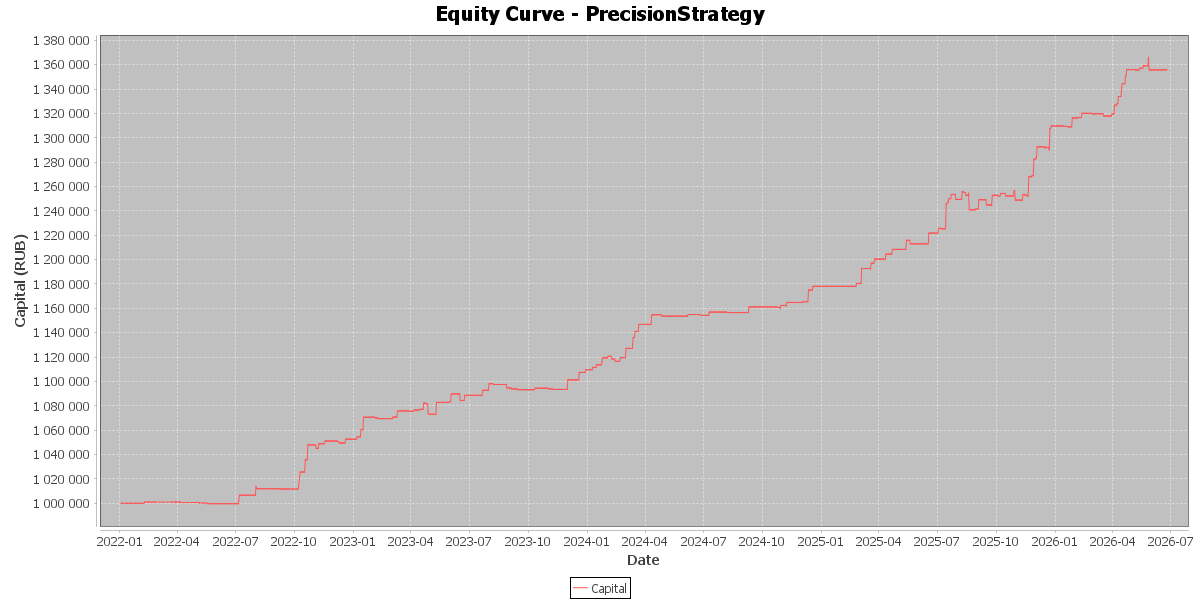
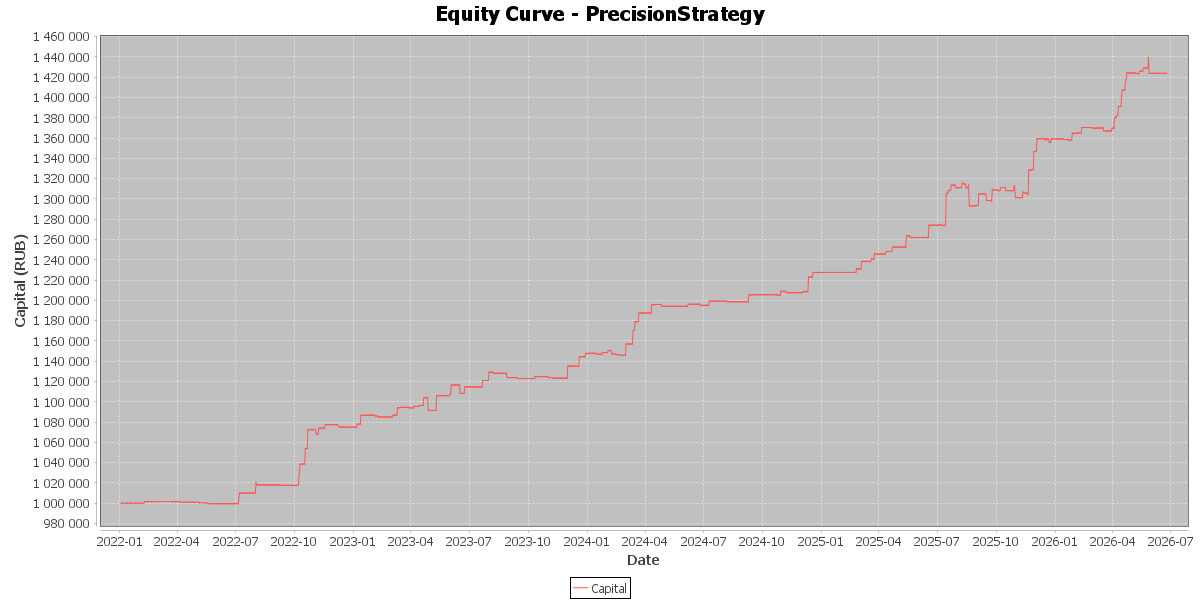
mini upd

diff --git a/src/main/java/com/github/shk0da/GoldenDragon/strategy/RegimeAwareStrategy.java b/src/main/java/com/github/shk0da/GoldenDragon/strategy/RegimeAwareStrategy.java
@@ -20,16 +20,20 @@ import java.util.List;
  */
 public class RegimeAwareStrategy extends BaseStrategy {
 
-    // Market regime thresholds - SIMPLIFIED
-    private static final double ADX_TREND_THRESHOLD = 28.0;
-    private static final double ADX_HOT_THRESHOLD = 38.0;
+    // Market regime thresholds - profit-tuned (backtest baseline: ADX trend 28/16)
+    private static final double ADX_TREND_THRESHOLD = 26.0;
+    private static final double ADX_HOT_THRESHOLD = 35.0;
     private static final double ADX_RANGE_THRESHOLD = 16.0;
 
-    // Adaptive position size multipliers
-    private static final double TREND_SIZE_MULT = 1.8;
-    private static final double HOT_TREND_SIZE_MULT = 2.2;
+    // Adaptive position size multipliers - increased in trend regimes for higher profit capture
+    private static final double TREND_SIZE_MULT = 2.1;
+    private static final double HOT_TREND_SIZE_MULT = 2.6;
     private static final double RANGE_SIZE_MULT = 0.55;
-    private static final double NORMAL_SIZE_MULT = 1.1;
+    private static final double NORMAL_SIZE_MULT = 1.3;
+
+    private static final double TREND_GROUP_BONUS = 1.22;
+    private static final double FX_GROUP_MULT = 0.75;
+    private static final double NORMAL_MIN_ADX = 18.0;
 
     // UnifiedStrategy instance
     private final UnifiedStrategy unifiedStrategy;
@@ -60,8 +64,14 @@ public class RegimeAwareStrategy extends BaseStrategy {
         logWithBacktest(
                 "RegimeAwareStrategy v4: Adaptive UnifiedStrategy (TREND:ADX>"
                         + ADX_TREND_THRESHOLD
+                        + ", HOT:ADX>"
+                        + ADX_HOT_THRESHOLD
                         + ", RANGE:ADX<"
                         + ADX_RANGE_THRESHOLD
+                        + ", trendMult="
+                        + TREND_SIZE_MULT
+                        + ", hotMult="
+                        + HOT_TREND_SIZE_MULT
                         + ")");
     }
 
@@ -102,7 +112,7 @@ public class RegimeAwareStrategy extends BaseStrategy {
             return new TradingDecision("HOLD", "RANGE_SKIP_ADX" + (int) adx);
         }
 
-        if (MarketRegime.NORMAL == regime && adx < 20.0) {
+        if (MarketRegime.NORMAL == regime && adx < NORMAL_MIN_ADX) {
             return new TradingDecision("HOLD", "NORMAL_WEAK_ADX" + (int) adx);
         }
 
@@ -123,10 +133,10 @@ public class RegimeAwareStrategy extends BaseStrategy {
         }
 
         if (Group.TREND == tickerGroup) {
-            balanceMultiplier *= 1.15;
+            balanceMultiplier *= TREND_GROUP_BONUS;
         }
         if (Group.FX == tickerGroup) {
-            balanceMultiplier *= 0.75;
+            balanceMultiplier *= FX_GROUP_MULT;
         }
         if (Group.MIXED == tickerGroup && MarketRegime.RANGE == regime) {
             balanceMultiplier *= 0.85;